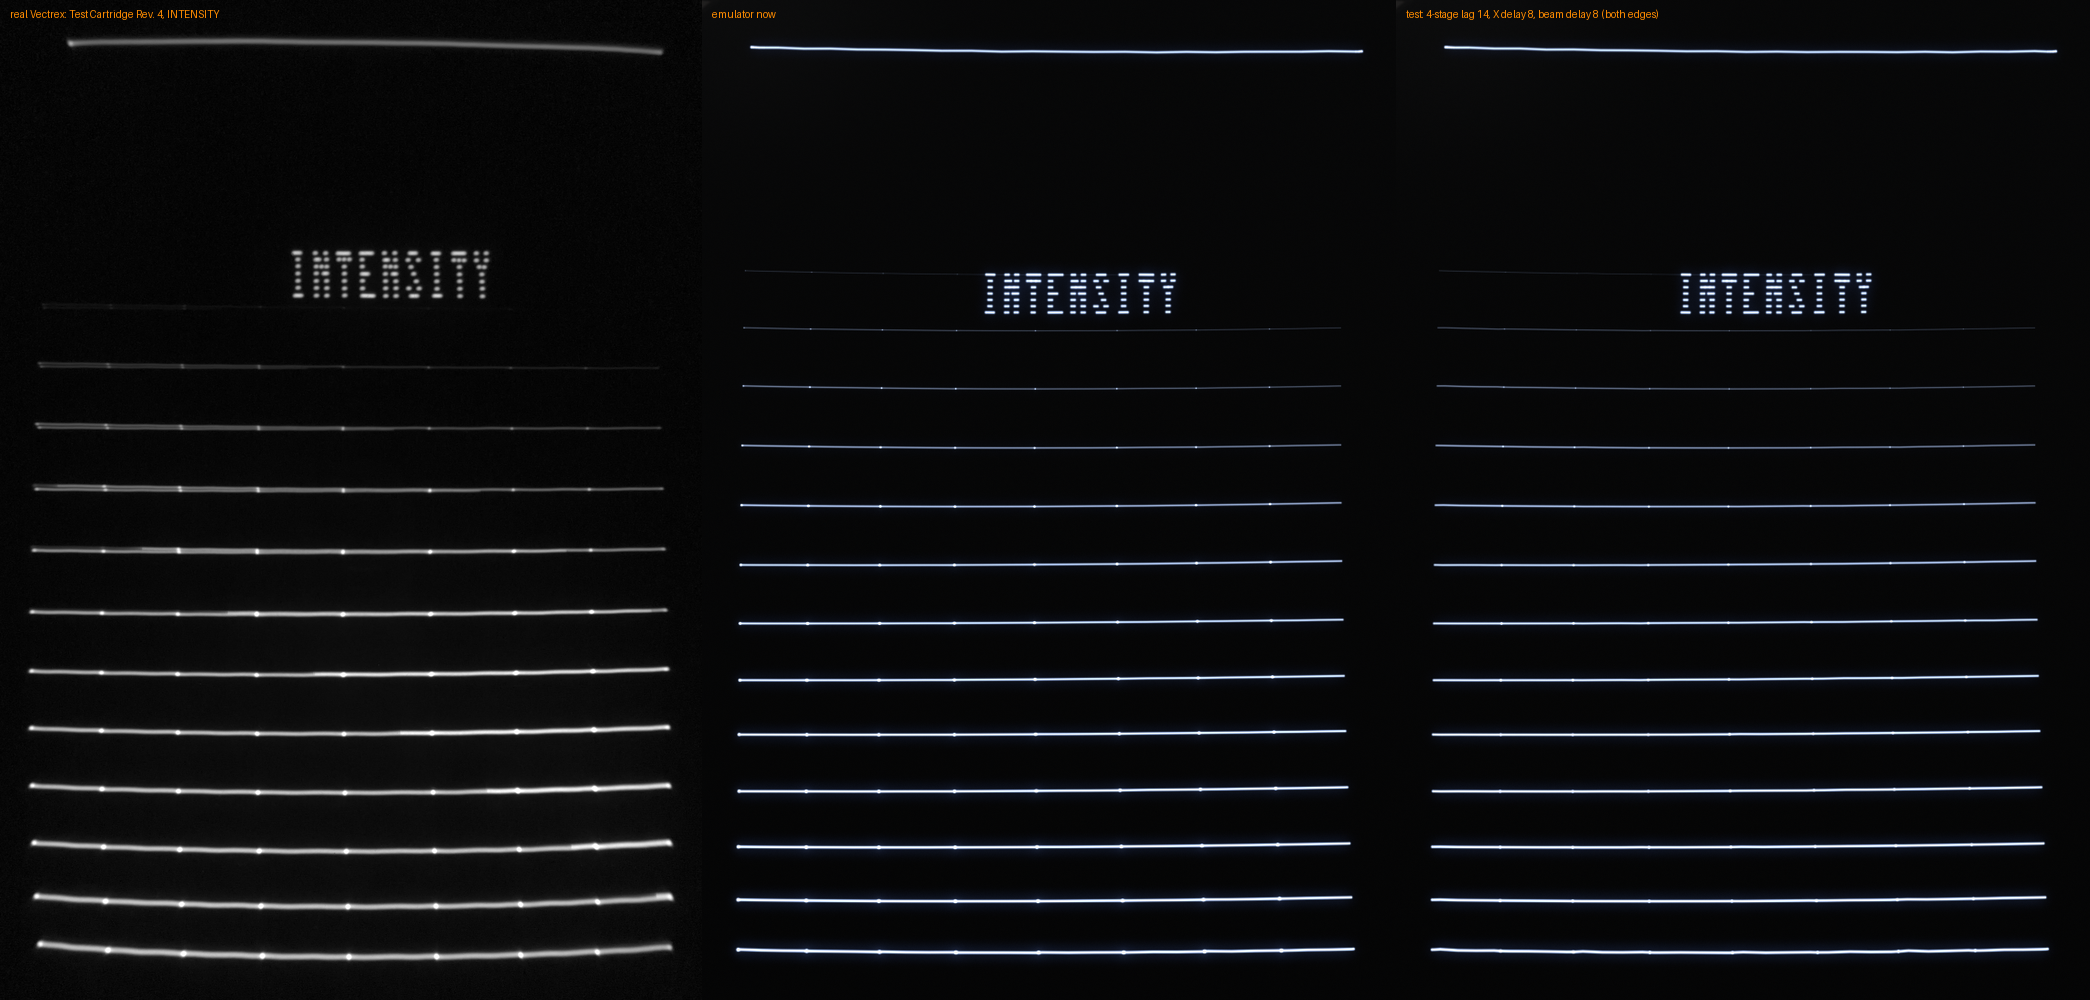
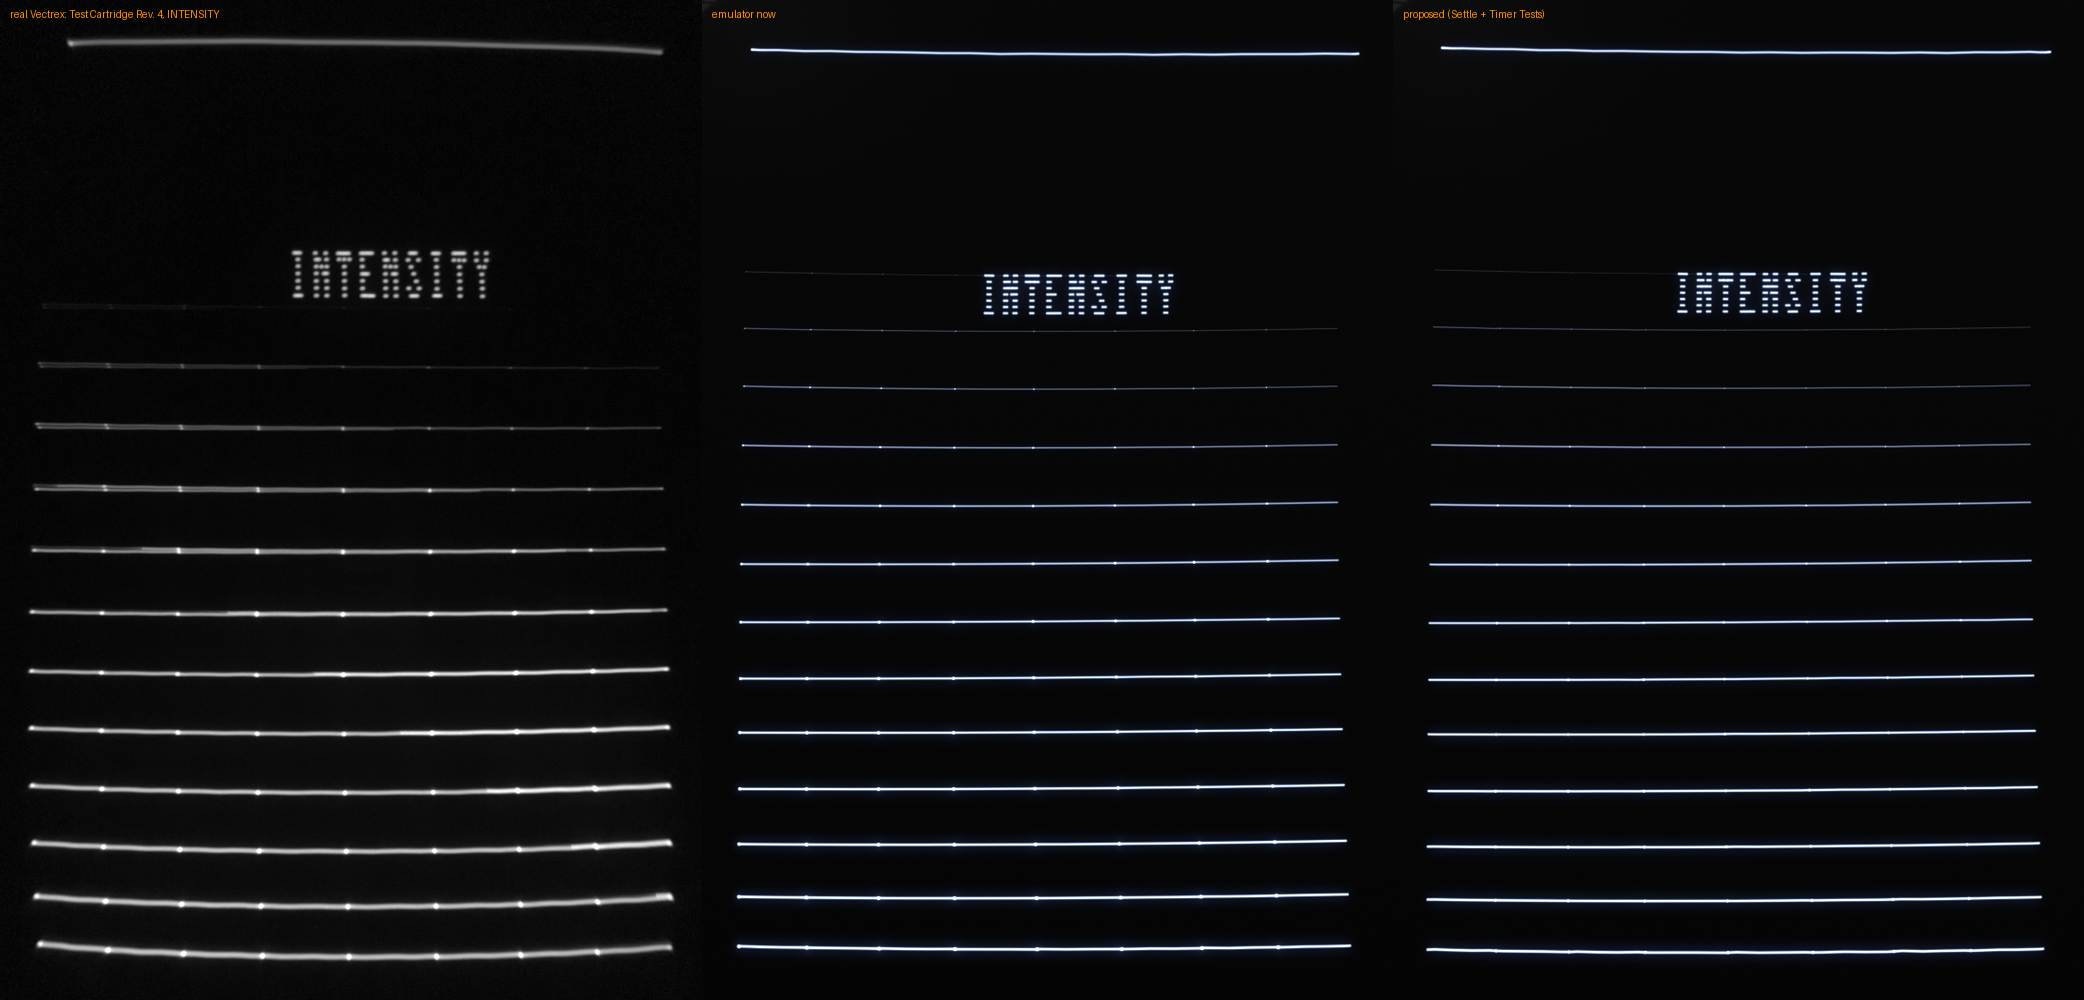
tools/photo_match: the Join Test's photos - the BIOS's line by hand fits the Settle + Timer settings to 0.3-0.6 cycles (the core today 1-1.5 off); the Y hold in time. Core (tests): VT_RAMPDLY stands against the frontend's line-gap setting (it took the stop delays back to 7 in every earlier grid). Wi

diff --git a/tools/photo_match/jt1.py b/tools/photo_match/jt1.py
@@ -1,0 +1,28 @@
+"""Join Test photos, pages 1 and 2 (the BIOS's line by hand): lit length per row -> travel in cycles; and the core's own"""
+import numpy as np, st1, sys, os
+from scipy import ndimage as nd
+load = lambda n: np.rot90(np.load('jt/%s_red.npy' % n).astype(np.float32), -1)
+N = [6, 8, 11, 13]; K1 = [2, 5, 8, 11, 14, 17, 20, 24, 32]; K2 = [-12, -8, -4, 4, 8, 12, 16, 20]
+def page(n, nrows, y0=1500, y1=2900):
+    g = load(n); s = nd.gaussian_filter(g, 2); m = s[y0:y1] > 0.25 * np.percentile(s, 99.9)
+    e = np.nonzero(np.diff((nd.binary_dilation(m.sum(0) > 2, iterations=25)).astype(int)))[0]; C = [(int(a) - 20, int(b) + 20) for a, b in zip(e[0::2], e[1::2])]
+    out = []; lev = None
+    for (xa, xb) in C[::-1]:
+        roi = (y0, y1, xa, xb); L = sorted(st1.lines(g, roi), key=lambda d: d['pos'])
+        if lev is None: lev = np.median([np.median(d['prof'][len(d['prof']) // 3:2 * len(d['prof']) // 3]) for d in sorted(L, key=lambda d: -len(d['prof']))[:3]])
+        # one line per row: rows by position
+        ys = np.array([d['pos'] for d in L]); rows = np.linspace(ys.min(), ys.max(), nrows); E = []
+        for r in rows:
+            d = L[int(np.argmin(abs(ys - r)))]; e2 = st1.ends(d['prof'], d['xa'], lev); E.append(e2[1] - e2[0] if e2 else np.nan)
+        out.append(E)
+    return out[::-1]
+if __name__ == '__main__':
+    P1 = page('39401', 9); P2 = page('40441', 8)
+    print('the tube, page 1 (shift register off K after t0 + N): the travel still to come, cycles (the whole line = N + 4.8)')
+    print('     K   %s' % ' '.join('%6d' % k for k in K1))
+    for n_, ln in zip(N, P1):
+        ln = np.array(ln); full = np.nanmedian(ln[-2:]); ppc = full / (n_ + 4.8); print('   N %2d  %s   (%.2f px a cycle)' % (n_, ' '.join('%6.2f' % ((full - x) / ppc) for x in ln), ppc))
+    print('the tube, page 2 (shift register on K after t0): the travel done before the beam came on')
+    print('     K   %s' % ' '.join('%6d' % k for k in K2))
+    for n_, ln in zip(N, P2):
+        ln = np.array(ln); full = np.nanmax(ln[:3]); ppc = full / (n_ + 4.8); print('   N %2d  %s' % (n_, ' '.join('%6.2f' % ((full - x) / ppc) for x in ln)))

diff --git a/tools/photo_match/compose3.py b/tools/photo_match/compose3.py
@@ -26,6 +26,6 @@ for name, ph, title in PAIRS:
         q = np.corrcoef(cs.ravel(), rs.ravel())[0, 1]
         if best is None or q > best[0]: best = (q, cc)
     tiles = [fit(Image.fromarray((best[1] * 255).astype(np.uint8)).convert('RGB'), 1000), fit(Image.fromarray(now[a:b, c:e]), 1000), fit(Image.fromarray(cand[a:b, c:e]), 1000)]
-    for t, n in zip(tiles, ['real Vectrex: ' + title, 'emulator now', 'proposed: 4-stage lag 14, X delay 8, beam-off delay 6']): ImageDraw.Draw(t).text((10, 8), n, fill=(255, 140, 0))
+    for t, n in zip(tiles, ['real Vectrex: ' + title, 'emulator now', 'proposed (Settle + Timer Tests)']): ImageDraw.Draw(t).text((10, 8), n, fill=(255, 140, 0))
     im = np.concatenate([np.array(t) for t in tiles], 1)
     Image.fromarray(im).save(r'G:\AI\Vectrex_EMU\testcart\compare\slew_%s.png' % name); print(name, im.shape)

diff --git a/tools/photo_match/jt2.py b/tools/photo_match/jt2.py
@@ -1,0 +1,9 @@
+"""the core's own Join Test lines (headless; settings from the environment), as jt1 for the tube"""
+import sys, os, numpy as np
+import sh2
+rom = r'G:\AI\Vectrex_EMU\testcart\join_test.bin'; v = 127 / 133.1
+N = [6, 8, 11, 13]
+T = sh2.table(rom, 1, 4, 9); print('page 1: to come at K 2 5 8 11 14 17 20 24 32')
+for n_, ln in zip(N, T): full = max(ln); print('   N %2d (whole %5.2f cycles)  %s' % (n_, full / v, ' '.join('%6.2f' % ((full - x) / v) for x in ln)))
+T = sh2.table(rom, 2, 4, 8); print('page 2: done at K -12 -8 -4 4 8 12 16 20')
+for n_, ln in zip(N, T): full = max(ln); print('   N %2d (whole %5.2f cycles)  %s' % (n_, full / v, ' '.join('%6.2f' % ((full - x) / v) for x in ln)))

diff --git a/src/core/vecx.c b/src/core/vecx.c
@@ -182,6 +182,7 @@ static double rdly_frac, rdly_frac_t1;   /* the stop delays' fractions (VT_RAMPO
 void vt_set_rampoff (double c)
 {
 	if (c < 0) c = 0; if (c > 40) c = 40;
+	if (getenv ("VT_RAMPDLY")) return;         /* (a test's delays stand: the frontend's setting arrived after them and took the stop delays back to 7) */
 	alg_rdly_off = alg_rdly_off_t1 = (unsigned) c;
 	rdly_frac = rdly_frac_t1 = c - (unsigned) c;
 }

diff --git a/tools/photo_match/README.md b/tools/photo_match/README.md
@@ -226,3 +226,25 @@ settles faster than a long one (the Settle Test's lines are 24-48 cycles) - a pa
 - Found on the way, in the core: a 16-bit store to the VIA (STX / STY / STD <$00) writes both bytes in the instruction's
   last cycle; a 6809 writes the first one (port B: RAMP, the mux) a cycle earlier. Every cart of mine switches RAMP that
   way, the BIOS mostly with 8-bit writes: a cycle of the mismatch between the hand-timed lines and the BIOS's. To fix.
+
+## The Join Test's photos and the setting that fits everything timed (2026-11-21, late night)
+
+- `jt1.py` (the tube), `jt2.py` (the core): the BIOS's line by hand (shift register + timer 1, N 6-13). The tube, N 13, travel
+  to come when the shift register is cleared K = 2 / 5 / 8 / 11 / 14 / 17 / 20 after t0 + N: 10.78 / 8.37 / 6.04 / 4.12 / 2.58 / 1.43 / 0.78;
+  travel done when it is set K = 4 / 8 / 12 / 16 / 20 after t0: 0.96 / 2.41 / 4.72 / 7.68 / 10.64 (at the BIOS's own -4: 0.1).
+  The core with lag 13.3 in 3 stages, VT_RAMPDLY=1,3,5, VT_ZDELAY=2, VT_SRDELAY=2, X delay 3: 10.46 / 8.02 / 5.79 / 3.96 / 2.59 /
+  1.63 / 0.97 and 0.81 / 2.47 / 4.97 / 8.08 / 11.24 - within 0.3-0.6 cycles; the core today 10.31 / 7.74 / 5.01 / 3.00 / 1.78 / 1.05 /
+  0.60 and 0.00 / 0.83 / 3.18 / 6.32 / 9.87.
+- Two rows of page 1 show a hook (N 8 / K 5, N 11 / K 2): the shift register cleared 17 cycles after it was set does not
+  blank - the 6522's shift register written as its eight bits end. Noted, not modelled.
+- Pages 3 and 4 (the Y hold): the second leg starts right for every K from 5 to 24 and with the mux open 7 or 12 cycles -
+  the Y speed is in its hold in time; nothing to change there.
+- **A harness trap**: the frontend's "line gaps" setting (vt_set_rampoff) arrives after VT_RAMPDLY and set both stop
+  delays back to 7 - every `cgrid.py` row with `ramp=` before this line ran with stop 7. Now VT_RAMPDLY, when given, stands.
+- With that fixed, rendered frames (`cgrid.py`; lag 13.3 in 3 stages, VT_RAMPDLY=1,3,4, VT_ZDELAY=2, VT_SRDELAY=3, X / Y delay 3):
+  the Corner Test's cut / leg 0.124 / 0.104 / 0.091 / 0.064 / 0.054 / 0.030 (photo 0.122 / 0.120 / 0.105 / 0.073 / 0.044 / 0.003; today
+  0.092 / 0.058 / 0.052 / 0.036 / 0.026 / 0.019); the Gap Test's dip index 0.066 / 0.066 / 0.076 / 0.086 / 0.107 / 0.129 / 0.133 / 0.047
+  (photo 0.060 / 0.051 / 0.058 / 0.075 / 0.099 / 0.132 / 0.171 / 0.067: rms 0.018, today 0.024); the squares' size nearer the
+  photo's; the font crisp. **What is left is light, not timing**: the tube shows a bright dot at every piece's start (the
+  beam on while the spot only creeps away); the core's rule renderer makes a dot from a rest only, so with the slow
+  start there is none (`testcart/compare/gap_joins_zoom.png`). The beam-on-phosphor light (dwell = light) is the fix.
